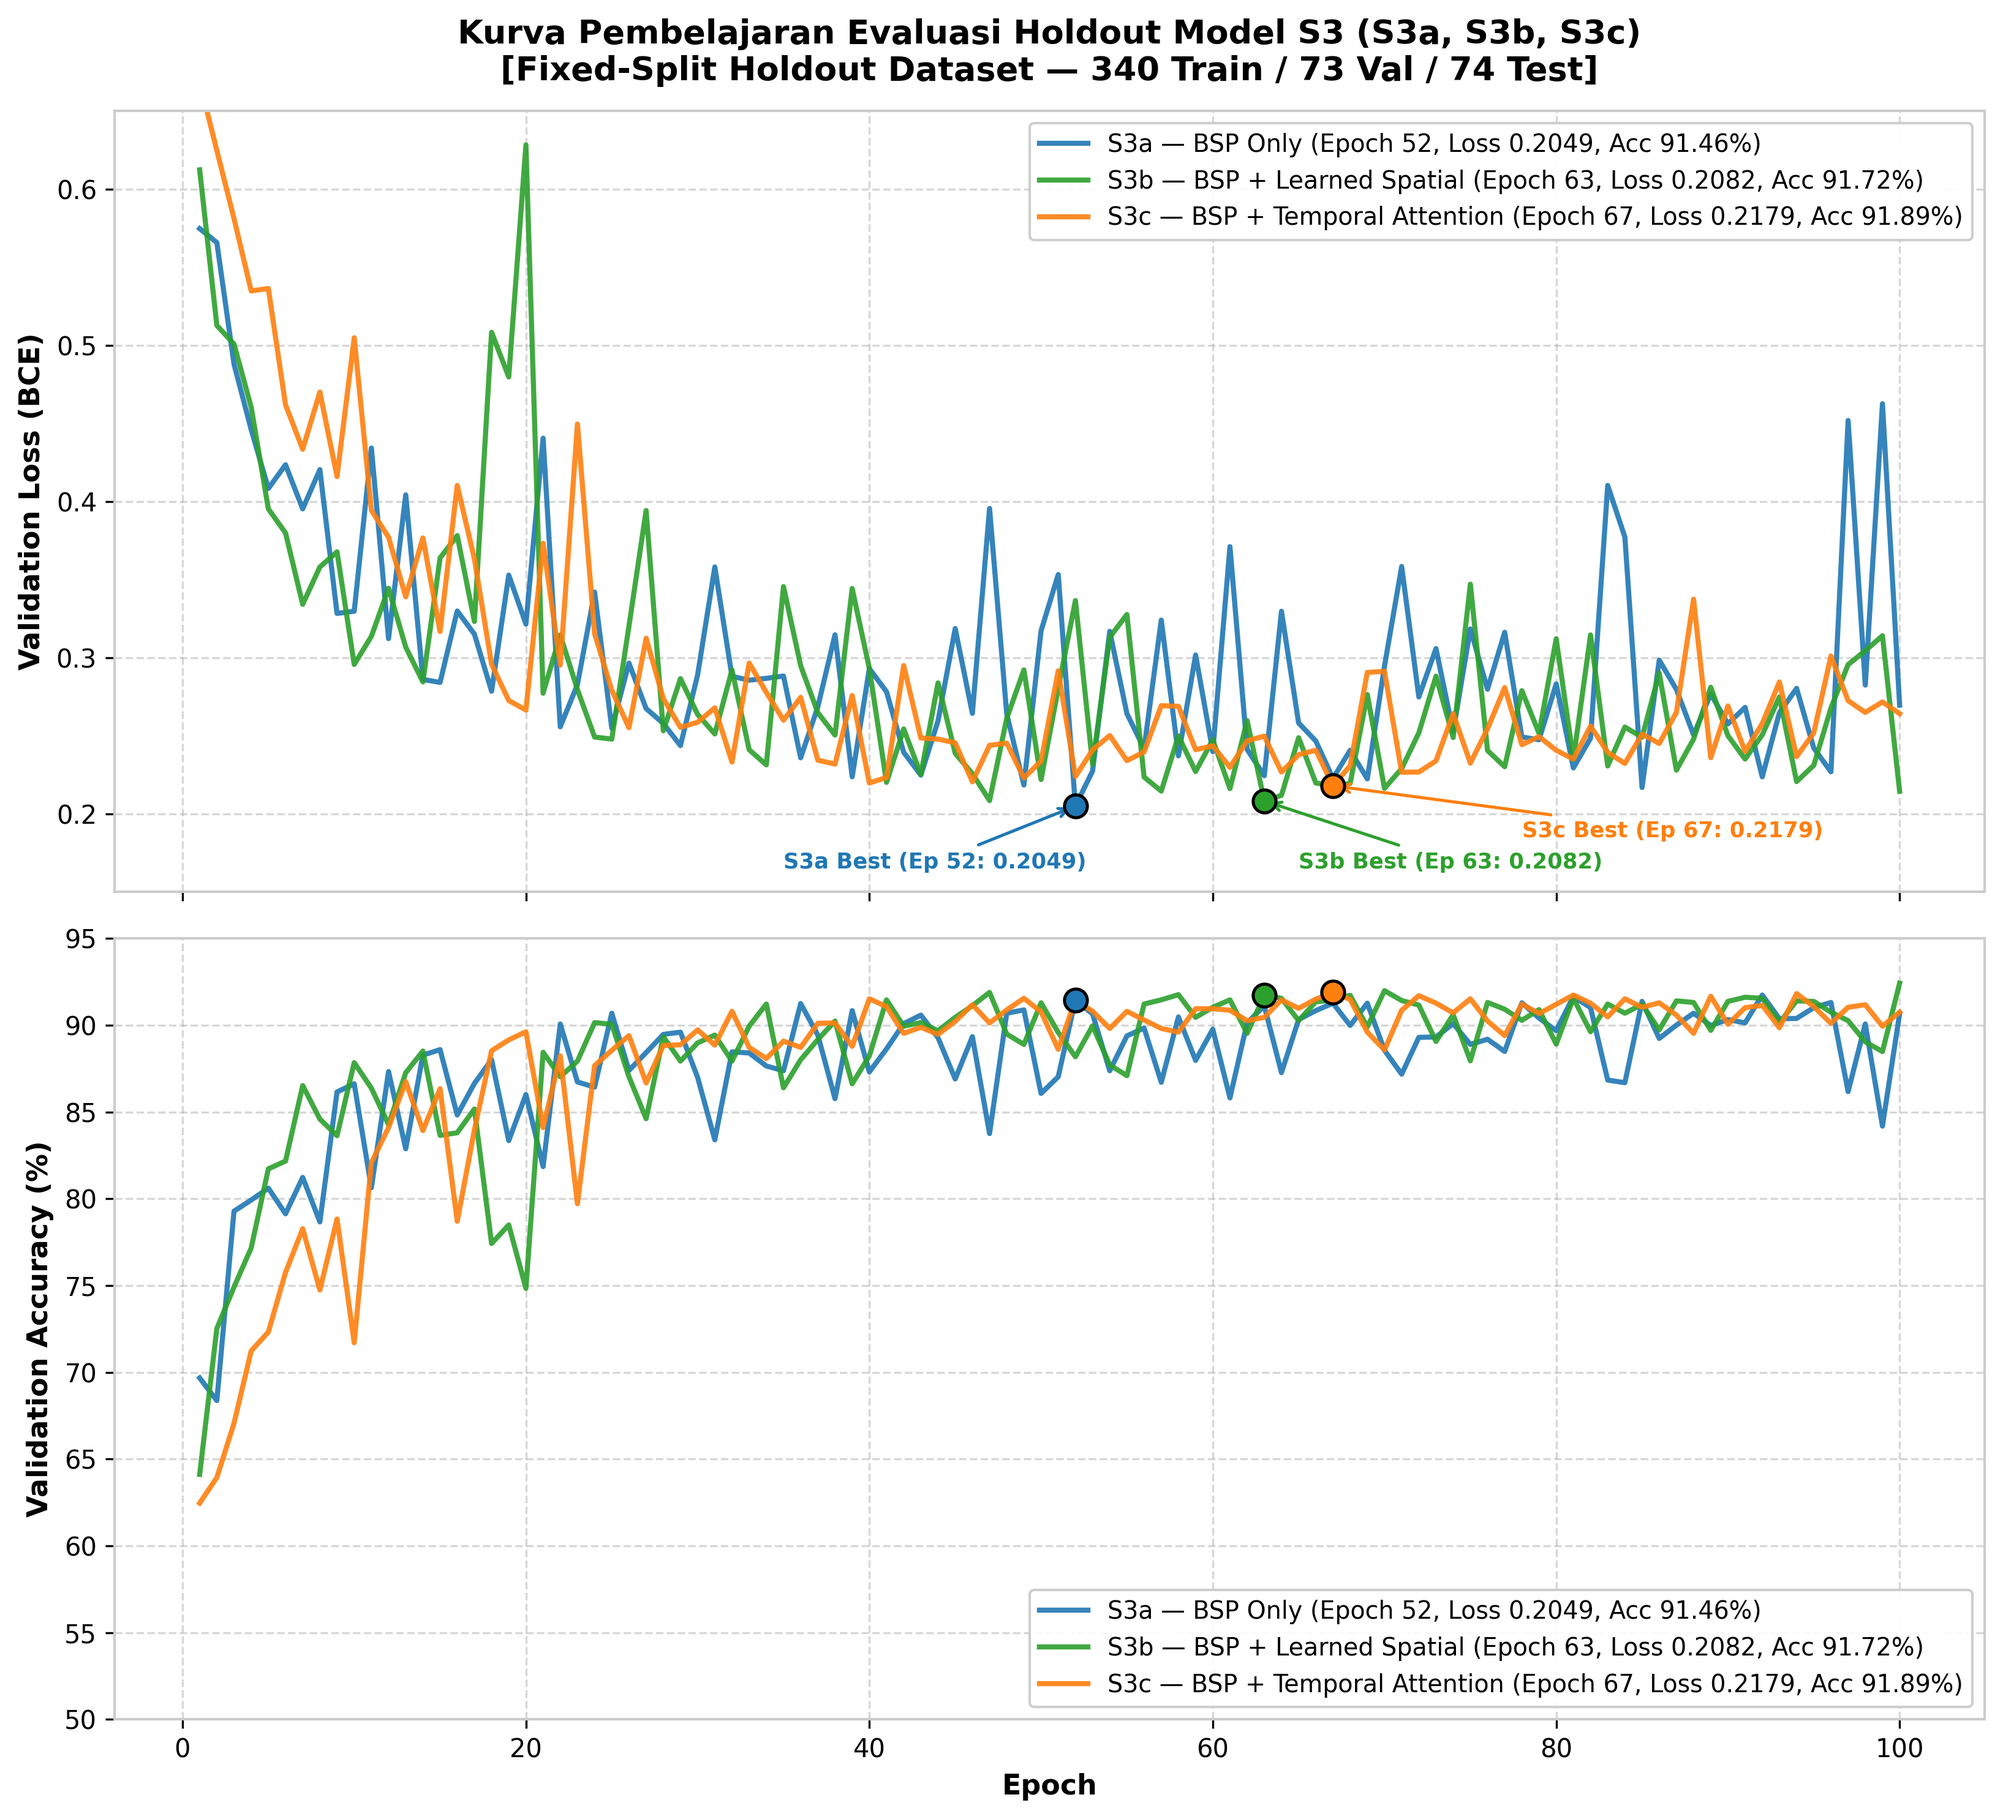
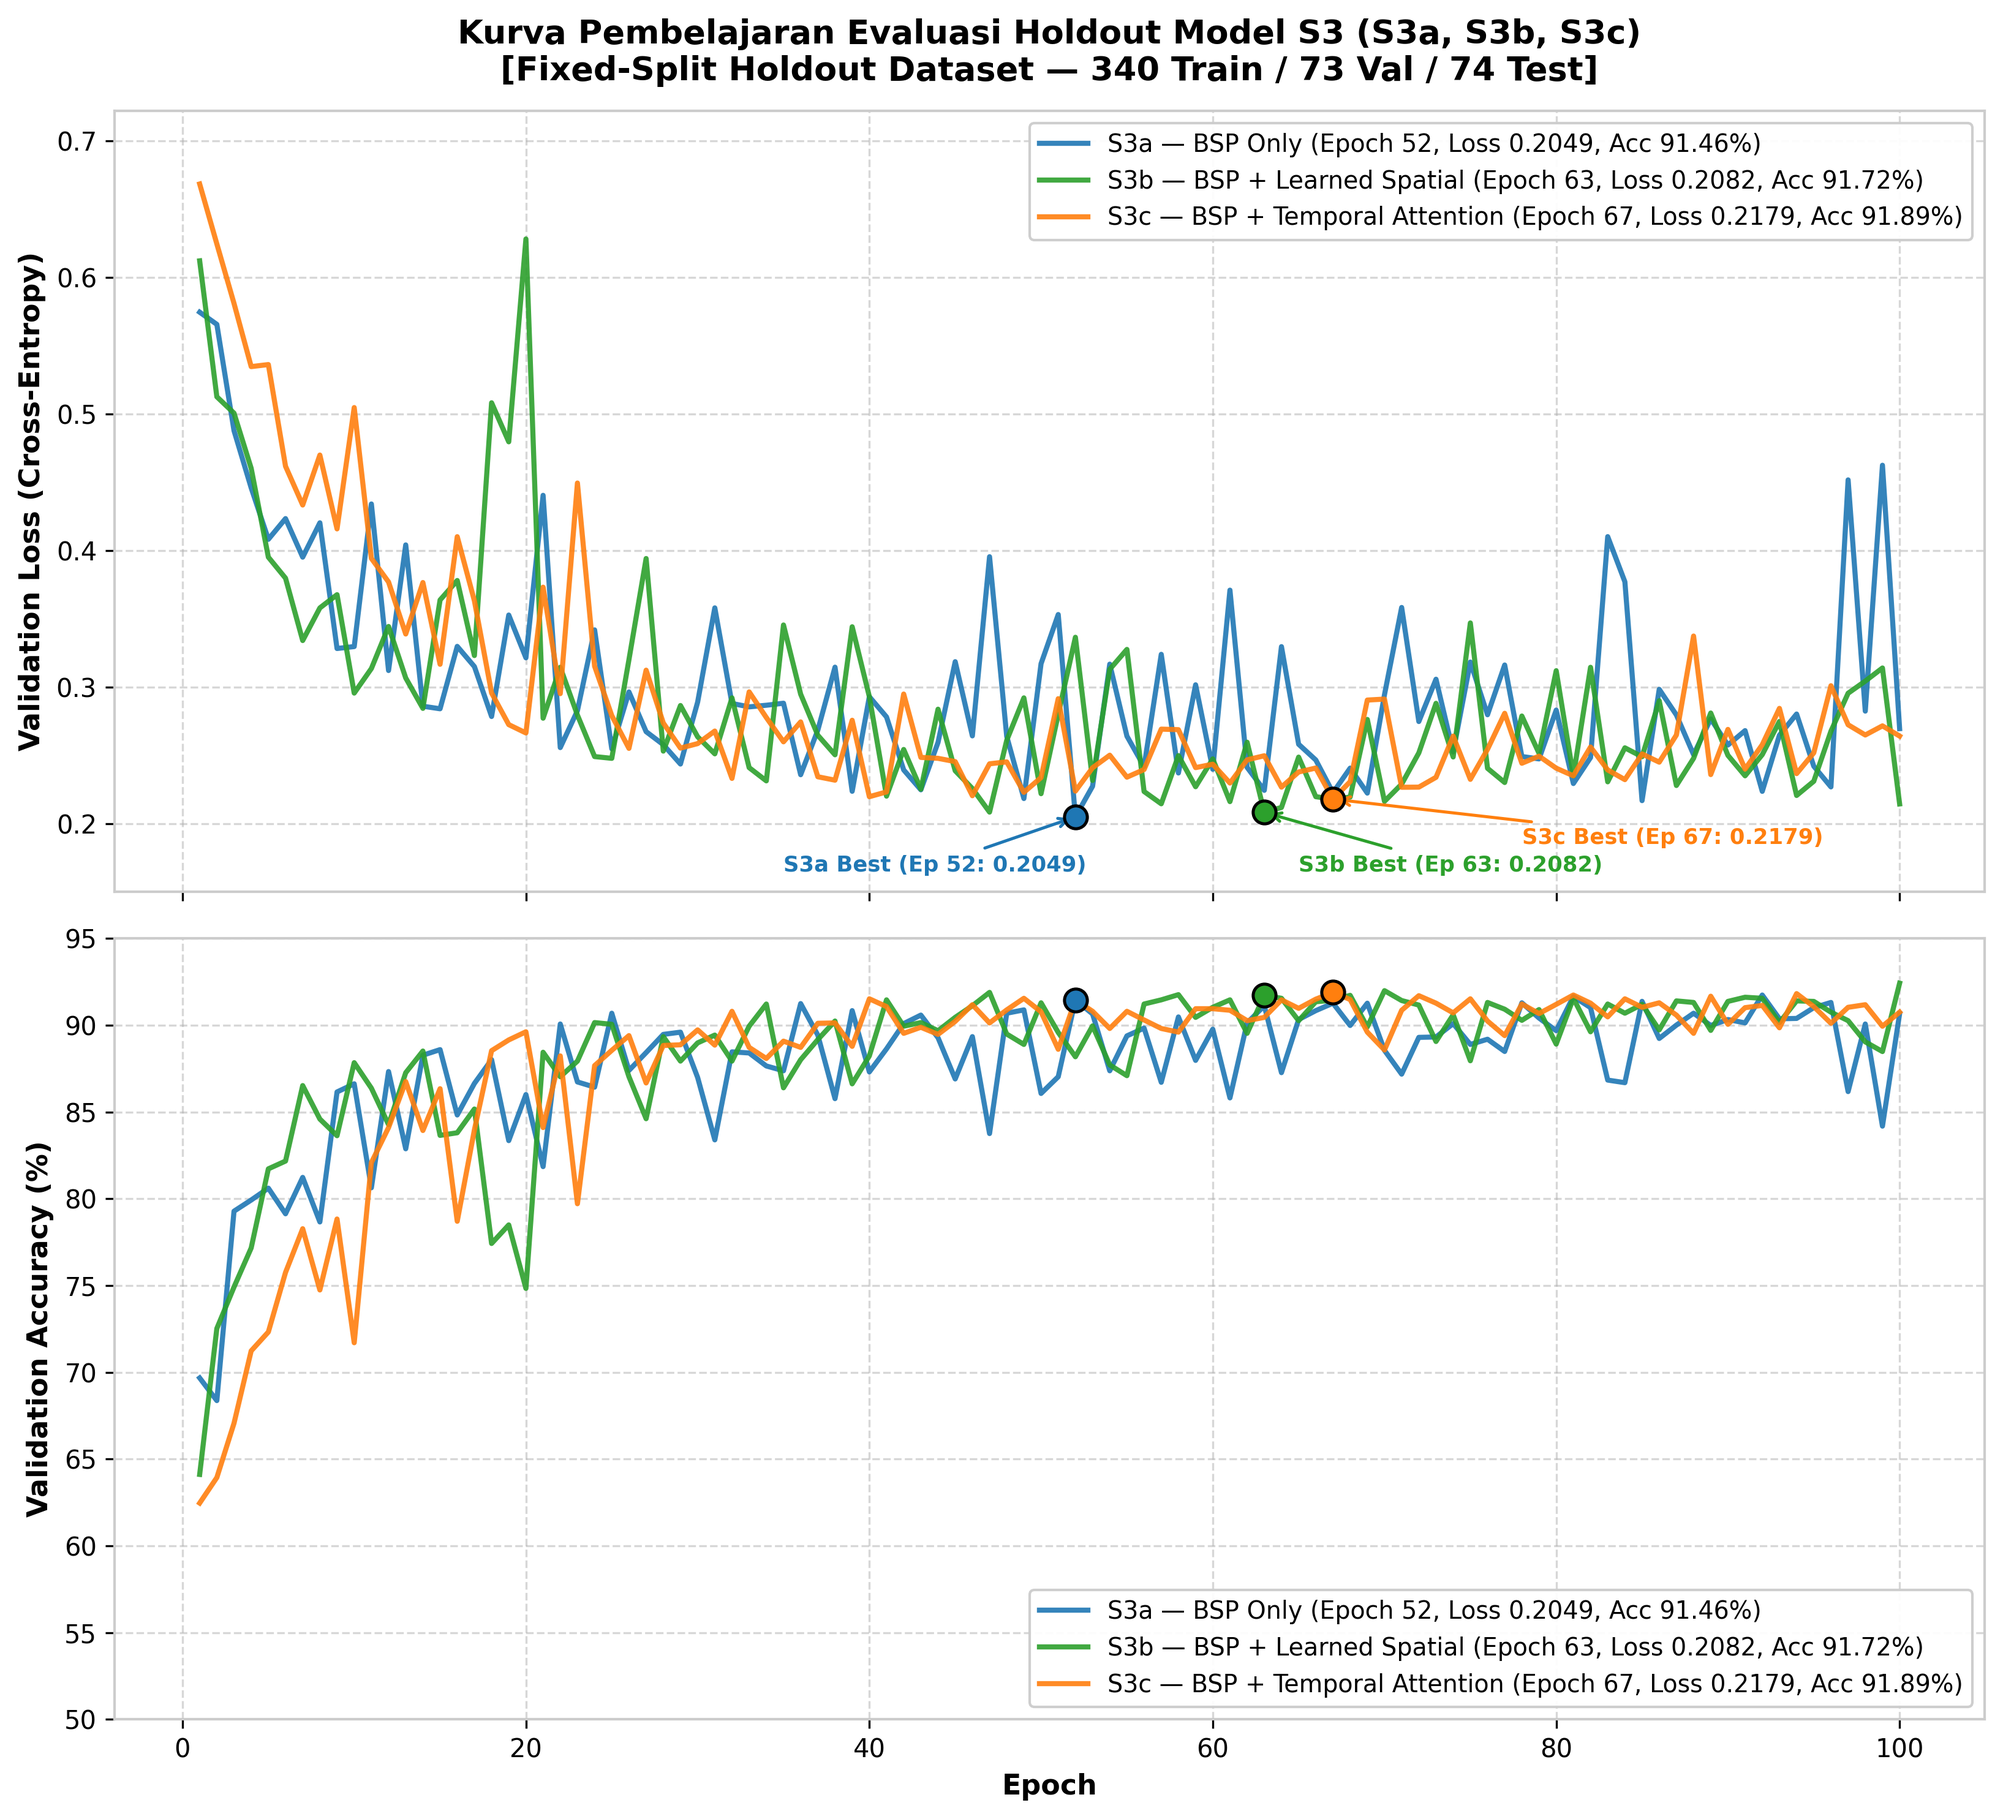
fix: correct S3 curve loss label and plot range

Changed region(s): [[0.0936, 0.062, 0.967, 0.4956], [0.0, 0.1549, 0.0312, 0.4027], [0.0312, 0.4337, 0.0624, 0.4646]]

diff --git a/Release_V2_AttentiveSkel3D/src/visualization/generate_holdout_learning_curves_v2.py b/Release_V2_AttentiveSkel3D/src/visualization/generate_holdout_learning_curves_v2.py
@@ -210,10 +210,11 @@ def plot_canonical_learning_curves(df_all: pd.DataFrame):
         fontweight="bold",
         pad=12,
     )
-    ax1.set_ylabel("Validation Loss (BCE)", fontsize=11, fontweight="bold")
+    ax1.set_ylabel("Validation Loss (Cross-Entropy)", fontsize=11, fontweight="bold")
     ax1.grid(True, linestyle="--", alpha=0.5)
     ax1.legend(loc="upper right", fontsize=9.5, framealpha=0.95)
-    ax1.set_ylim(0.15, 0.65)
+    max_val_loss = df_all["val_loss"].max()
+    ax1.set_ylim(0.15, max(max_val_loss * 1.08, 0.72))
 
     # ── Panel 2: Validation Accuracy ───────────────────────────────────────────
     for sc, cfg in configs.items():

diff --git a/Release_V2_AttentiveSkel3D/README.md b/Release_V2_AttentiveSkel3D/README.md
@@ -24,9 +24,9 @@ Pada cabang `revision/post-semhas`, dilakukan serangkaian audit, perbaikan metod
    - *(Catatan: DOI terdahulu `10.34740/kaggle/dsv/19038457` dan `10.34740/kaggle/dsv/19041891` tetap disimpan dalam arsip historis sebagai bukti evolusi iterasi dataset).*
 5. **Koreksi & Sintesis Kurva Pembelajaran S3 (Canonical Holdout Curves)**:
    - Evaluasi K-Fold Cross-Validation (5-fold) dan Evaluasi Holdout (fixed-split) merupakan dua jalur evaluasi independen. Metrik kuantitatif canonical keduanya tidak berubah.
-   - Kurva `curve_s3_ablation_comparison.png` diperbarui dari sumber riwayat pelatihan holdout 100 epoch per skenario menggunakan script `src/visualization/generate_holdout_learning_curves_v2.py` tanpa retraining.
+   - Sumbu grafik disesuaikan ke `Validation Loss (Cross-Entropy)` dan batas rentang plot disesuaikan (0.15 hingga >0.67) agar seluruh titik data 100 epoch per skenario terlihat tanpa terpotong.
    - Provenance data 300 baris diekspor ke `hasil_evaluasi/Holdout_Training_History_S3_Canonical_V2.csv` (S3a Ep 52 val_loss 0.2049, S3b Ep 63 val_loss 0.2082, S3c Ep 67 val_loss 0.2179).
-   - Notebook `notebooks/06_KFold_Semua_Skenario_V2.ipynb` adalah notebook K-Fold canonical resmi, sedangkan `notebooks/06_kfold_cross_validation_v2_PerFrame.ipynb` merupakan duplikat historis yang dipertahankan.
[1 lines of base64/hex data omitted]
 
 ---
 
